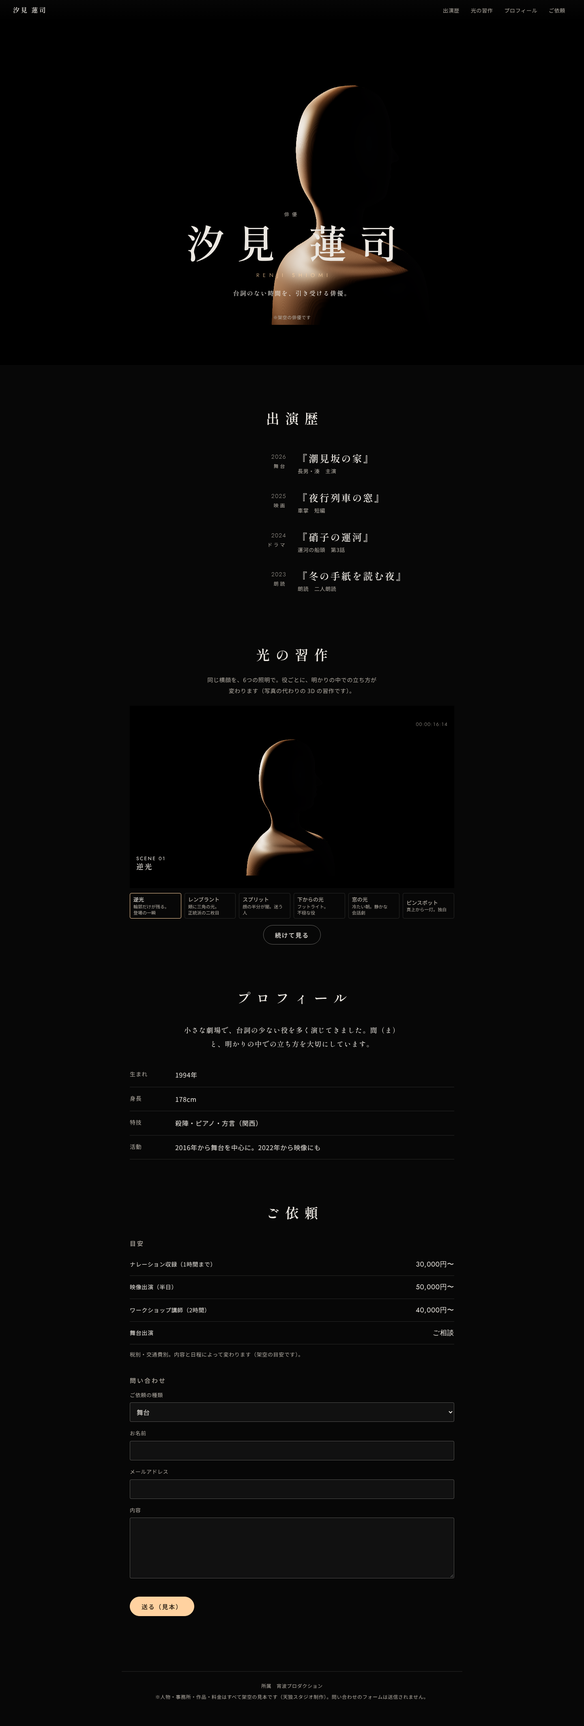
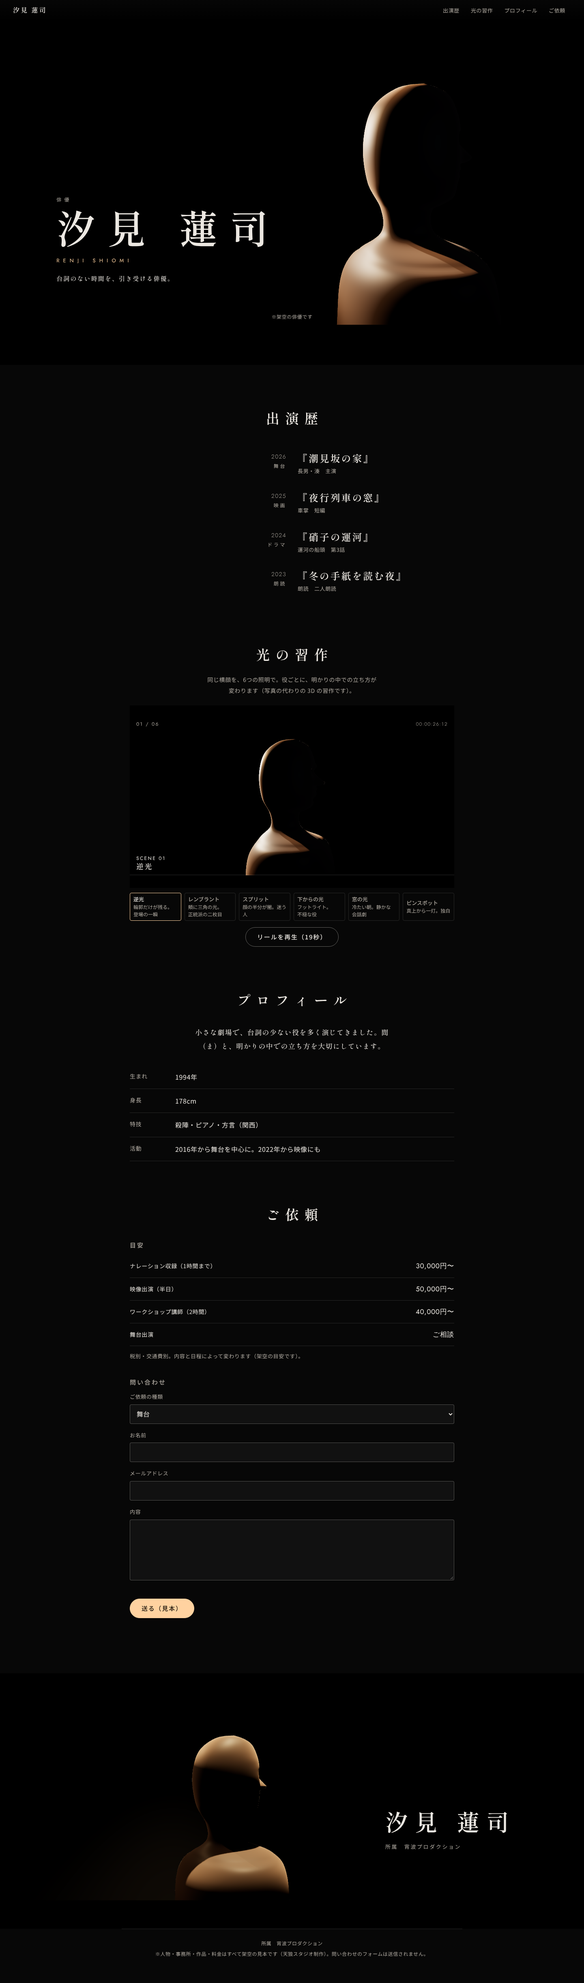
P008：審査1回目の指摘を反映（頭の立体に目のくぼみ・眉・鼻、法線の向きを直して影の縞をなくす、タイトルの出方を4行で変える、PC は文字を左・人物を右に、19秒のリールと進行バー、エンドクレジットでピンスポット、照明ごとの静止画の代替、作品名の折り返し）
Claude-Session: https://claude.ai/code/session_01BwmUGTgfPEj1Tu5124aDtq

diff --git a/studio/projects/P008-actor/site/app.js b/studio/projects/P008-actor/site/app.js
@@ -4,7 +4,7 @@ const $ = id => document.getElementById(id);
 const el = (t, c, x) => { const e = document.createElement(t); if (c) e.className = c; if (x != null) e.textContent = x; return e; };
 const reduce = matchMedia('(prefers-reduced-motion: reduce)').matches;
 $('logo').textContent = F.name; $('t-role').textContent = F.role; $('h-name').textContent = F.name; $('t-en').textContent = F.en; $('t-tag').textContent = F.tagline;
-$('fic').textContent = '※架空の俳優です'; $('about').textContent = F.about; $('rnote').textContent = F.rates_note; $('agency').textContent = `所属　${F.agency}`; $('discl').textContent = F.disclosure;
+$('fic').textContent = '※架空の俳優です'; $('e-name').textContent = F.name; $('e-ag').textContent = `所属　${F.agency}`; $('about').textContent = F.about; $('rnote').textContent = F.rates_note; $('agency').textContent = `所属　${F.agency}`; $('discl').textContent = F.disclosure;
 for (const w of F.works) { const li = el('li'), l = el('p', 'l'), r = el('p', 'r'); l.style.margin = r.style.margin = '0'; l.append(String(w.year), el('span', null, w.kind)); r.append(el('span', 't', `『${w.title}』`), el('span', 'ro', `${w.role}　${w.note}`)); li.append(l, r); $('roll').append(li); }
 for (const [k, v] of F.profile) { const d = el('div'); d.append(el('dt', null, k), el('dd', null, v)); $('prof').append(d); }
 for (const [k, v] of F.rates) { const d = el('div'); d.append(el('dt', null, k), el('dd', null, v)); $('rates').append(d); }
@@ -23,10 +23,10 @@ $('form').addEventListener('submit', e => {
 // 照明の選択（ラジオの並び）
 let look = 0, onLook = () => {};
 const lbtn = F.looks.map((L, i) => { const b = el('button'); b.type = 'button'; b.setAttribute('role', 'radio'); b.setAttribute('aria-checked', String(i === 0)); b.tabIndex = i ? -1 : 0; b.append(L.name, el('small', null, L.note)); b.addEventListener('click', () => setLook(i, true)); $('looks').append(b); return b; });
-function setLook(i, user) { look = i; lbtn.forEach((b, k) => { b.setAttribute('aria-checked', String(k === i)); b.tabIndex = k === i ? 0 : -1; }); const s = $('slate'); s.textContent = ''; s.append(`SCENE ${String(i + 1).padStart(2, '0')}`, el('b', null, F.looks[i].name)); if (user && playing) togglePlay(); onLook(i); }
+function setLook(i, user) { look = i; lbtn.forEach((b, k) => { b.setAttribute('aria-checked', String(k === i)); b.tabIndex = k === i ? 0 : -1; }); const s = $('slate'); s.textContent = ''; s.append(`SCENE ${String(i + 1).padStart(2, '0')}`, el('b', null, F.looks[i].name)); if (user && playing) togglePlay(); $('count').textContent = `${String(i + 1).padStart(2, '0')} / ${String(F.looks.length).padStart(2, '0')}`; $('still').style.backgroundImage = `url(looks/${F.looks[i].id}.jpg)`; s.classList.remove('in'); void s.offsetWidth; s.classList.add('in'); onLook(i); }
 $('looks').addEventListener('keydown', e => { const d = { ArrowRight: 1, ArrowDown: 1, ArrowLeft: -1, ArrowUp: -1 }[e.key]; if (!d) return; e.preventDefault(); const n = (look + d + lbtn.length) % lbtn.length; setLook(n, true); lbtn[n].focus(); });
 let playing = false, playT = 0;
-function togglePlay() { playing = !playing; $('play').setAttribute('aria-pressed', String(playing)); $('play').textContent = playing ? '止める' : '続けて見る'; playT = performance.now(); }
+function togglePlay() { playing = !playing; $('play').setAttribute('aria-pressed', String(playing)); $('play').textContent = playing ? '止める' : 'リールを再生（19秒）'; playT = performance.now(); $('bar').style.transform = 'scaleX(0)'; if (playing) setLook(0); }
 $('play').addEventListener('click', togglePlay);
 setLook(0);
 
@@ -34,33 +34,35 @@ setLook(0);
   let THREE; try { THREE = await import('three'); } catch { return; }
   const scene = new THREE.Scene();
   // 横顔（右向き）。前の輪郭・後ろの輪郭・左右の幅を高さごとに決め、各高さの断面を楕円にして頭の立体を組む
-  const FRONT = [[.52, .04], [.42, .24], [.24, .33], [.1, .35], [.04, .33], [-.02, .37], [-.13, .46], [-.17, .44], [-.19, .37], [-.24, .385], [-.27, .36], [-.31, .38], [-.35, .35], [-.38, .31], [-.44, .33], [-.5, .3], [-.56, .2], [-.6, .12], [-.74, .11], [-.86, .2], [-1.0, .5], [-1.25, .62], [-1.7, .66]];
+  const FRONT = [[.52, .04], [.42, .24], [.24, .33], [.1, .35], [.04, .33], [-.02, .37], [-.11, .47], [-.14, .5], [-.18, .45], [-.19, .37], [-.24, .385], [-.27, .36], [-.31, .38], [-.35, .35], [-.38, .31], [-.44, .33], [-.5, .3], [-.56, .2], [-.6, .12], [-.74, .11], [-.86, .2], [-1.0, .5], [-1.25, .62], [-1.7, .66], [-2.6, .68]];
   // 鼻・唇・顎の凹凸は顔の中央だけに付ける（横まで伸ばすと帯に見える）。その外側は、凹凸のない滑らかな顔の線
-  const BASE = [[.52, .04], [.42, .24], [.24, .33], [.1, .35], [-.1, .36], [-.3, .35], [-.44, .33], [-.5, .3], [-.56, .2], [-.6, .12], [-.74, .11], [-.86, .2], [-1.0, .5], [-1.25, .62], [-1.7, .66]];
-  const BACK = [[.52, .04], [.48, -.2], [.3, -.42], [-.02, -.5], [-.36, -.46], [-.6, -.34], [-.8, -.33], [-.98, -.5], [-1.25, -.66], [-1.7, -.7]];
-  const WIDE = [[.52, 0], [.47, .2], [.3, .33], [0, .37], [-.3, .34], [-.5, .26], [-.62, .19], [-.85, .21], [-1.0, .62], [-1.15, .86], [-1.7, .92]];
+  const BASE = [[.52, .04], [.42, .24], [.24, .33], [.1, .35], [-.1, .36], [-.3, .35], [-.44, .33], [-.5, .3], [-.56, .2], [-.6, .12], [-.74, .11], [-.86, .2], [-1.0, .5], [-1.25, .62], [-1.7, .66], [-2.6, .68]];
+  const BACK = [[.52, .04], [.48, -.2], [.3, -.42], [-.02, -.5], [-.36, -.46], [-.6, -.34], [-.8, -.33], [-.98, -.5], [-1.25, -.66], [-1.7, -.7], [-2.6, -.72]];
+  const WIDE = [[.52, 0], [.47, .2], [.3, .33], [0, .37], [-.3, .34], [-.5, .26], [-.62, .19], [-.85, .21], [-1.0, .62], [-1.15, .86], [-1.7, .92], [-2.6, .94]];
   const dense = pts => new THREE.SplineCurve(pts.map(([y, x]) => new THREE.Vector2(y, x))).getSpacedPoints(600);
   const DF = dense(FRONT), DS = dense(BASE), DB = dense(BACK), DW = dense(WIDE);
   const at = (D, y) => { for (let i = 1; i < D.length; i++) if (D[i].x <= y) { const p = D[i - 1], q = D[i], t = (y - p.x) / ((q.x - p.x) || 1e-6); return p.y + (q.y - p.y) * t; } return D[D.length - 1].y; };
   const NY = 260, NT = 128, pos = [], idx = [];
   for (let j = 0; j <= NY; j++) {
-    const y = .52 - (j / NY) * 2.22, xs = at(DS, y), det = at(DF, y) - xs, xb = at(DB, y), c = (xs + xb) / 2, ax = Math.max(0, (xs - xb) / 2), w = at(DW, y);
-    for (let i = 0; i <= NT; i++) { const th = i / NT * Math.PI * 2, cs = Math.cos(th), sn = Math.sin(th), face = cs > 0 ? det * Math.exp(-sn * sn / .035) : 0; pos.push(c + ax * Math.sign(cs) * Math.pow(Math.abs(cs), .9) + face, y, w * Math.sign(sn) * Math.pow(Math.abs(sn), .9)); }
+    const y = .52 - (j / NY) * 3.1, xs = at(DS, y), det = at(DF, y) - xs, xb = at(DB, y), c = (xs + xb) / 2, ax = Math.max(0, (xs - xb) / 2), w = at(DW, y);
+    for (let i = 0; i <= NT; i++) { const th = i / NT * Math.PI * 2, cs = Math.cos(th), sn = Math.sin(th), face = cs > 0 ? det * Math.exp(-sn * sn / .05) : 0; const z = w * Math.sign(sn) * Math.pow(Math.abs(sn), .9), eye = cs > 0 ? .055 * Math.exp(-((Math.abs(z) - .13) ** 2) / .0035) * Math.exp(-((y - .03) ** 2) / .005) : 0, brow = cs > 0 ? .025 * Math.exp(-(z * z) / .03) * Math.exp(-((y - .11) ** 2) / .002) : 0; pos.push(c + ax * Math.sign(cs) * Math.pow(Math.abs(cs), .9) + face - eye + brow, y, z); }   // 目のくぼみと眉の張り
   }
-  for (let j = 0; j < NY; j++) for (let i = 0; i < NT; i++) { const a0 = j * (NT + 1) + i, a1 = a0 + 1, b0 = a0 + NT + 1, b1 = b0 + 1; idx.push(a0, b0, a1, a1, b0, b1); }
+  for (let j = 0; j < NY; j++) for (let i = 0; i < NT; i++) { const a0 = j * (NT + 1) + i, a1 = a0 + 1, b0 = a0 + NT + 1, b1 = b0 + 1; idx.push(a0, a1, b0, a1, b1, b0); }   // 法線が外を向く巻き方（逆だと normalBias で頭全体が自分の影に入る）
   const geo = new THREE.BufferGeometry(); geo.setAttribute('position', new THREE.Float32BufferAttribute(pos, 3)); geo.setIndex(idx); geo.computeVertexNormals();
   const skin = new THREE.MeshPhysicalMaterial({ side: THREE.DoubleSide, color: 0x6e5a4e, roughness: .55, sheen: .6, sheenColor: new THREE.Color(0xffd9c0), sheenRoughness: .6 });
   const head = new THREE.Mesh(geo, skin); head.castShadow = head.receiveShadow = true; scene.add(head);
+  if (false) for (const sz of [-1, 1]) { const ear = new THREE.Mesh(new THREE.SphereGeometry(1, 24, 16), skin); ear.scale.set(.065, .11, .035); ear.position.set(-.06, -.07, sz * .36); ear.rotation.y = sz * .25; ear.castShadow = true; head.add(ear); }
   // 奥の壁（光が当たると舞台の黒幕のように浮く）
   const wall = new THREE.Mesh(new THREE.PlaneGeometry(14, 8), new THREE.MeshStandardMaterial({ color: 0x141312, roughness: .95 })); wall.position.set(0, 0, -2.4); wall.receiveShadow = true; scene.add(wall);
   const amb = new THREE.HemisphereLight(0x1a1d24, 0x050505, .25); scene.add(amb);
   const key = new THREE.SpotLight(0xffffff, 0, 20, .5, .7, 1.2), fill = new THREE.SpotLight(0xffffff, 0, 20, .7, .9, 1.2), rim = new THREE.SpotLight(0xffffff, 0, 20, .5, .6, 1.2);
-  for (const l of [key, fill, rim]) { l.castShadow = true; l.shadow.mapSize.set(1024, 1024); l.shadow.bias = -.0004; l.target = head; scene.add(l); }
+  const small = innerWidth < 700, msz = small ? 512 : 1024;
+  for (const l of [key, fill, rim]) { l.castShadow = true; l.shadow.mapSize.set(msz, msz); l.shadow.bias = -.0015; l.shadow.normalBias = .03; l.shadow.camera.near = 1; l.shadow.camera.far = 12; l.target = head; scene.add(l); }
   // 6つの照明：key・fill・rim の位置・色・強さ、壁の光、カメラの角度（横顔からの回り込み）
   const V = (x, y, z) => new THREE.Vector3(x, y, z), C = h => new THREE.Color(h);
   const LOOK = {
     rim: { key: [V(-3, 1.5, -2.5), C(0xffcf9a), 26], fill: [V(2, 0, 3), C(0x9fb4d8), .6], rim: [V(-2.2, .6, -2.8), C(0xfff0dc), 30], wall: .0, yaw: .0 },
-    rembrandt: { key: [V(2.6, 2.4, 2.2), C(0xffe2c4), 30], fill: [V(-2, .2, 3), C(0x8fa2c4), 2], rim: [V(-2.4, 1, -2.4), C(0xfff0dc), 8], wall: .2, yaw: -.55 },
+    rembrandt: { key: [V(2.2, 2.0, 2.6), C(0xffe2c4), 30], fill: [V(-2, .2, 3), C(0x8fa2c4), 2], rim: [V(-2.4, 1, -2.4), C(0xfff0dc), 8], wall: .2, yaw: -.55 },
     split: { key: [V(0, .3, 3.6), C(0xfff2e6), 26], fill: [V(0, 0, -3), C(0x000000), 0], rim: [V(-3, .5, 0), C(0x6f86b8), 4], wall: .05, yaw: -1.2 },
     under: { key: [V(1.6, -2.6, 1.6), C(0xb8c8ff), 28], fill: [V(-2, -1, 2), C(0x31406b), 2], rim: [V(-2, 1, -2.5), C(0x7d5cff), 8], wall: .15, yaw: -.35 },
     window: { key: [V(3.2, 1.6, .6), C(0xc9dbff), 22], fill: [V(-2, 1, 3), C(0x8c9bb6), 4], rim: [V(-2, 1.2, -2.6), C(0xe8eeff), 6], wall: .35, yaw: -.2 },
@@ -74,31 +76,41 @@ setLook(0);
   const applyState = st => { [['key', key], ['fill', fill], ['rim', rim]].forEach(([n, l]) => { l.position.copy(st[n][0]); l.color.copy(st[n][1]); l.intensity = st[n][2]; }); wall.material.color.setRGB(.08 + st.wall * .25, .075 + st.wall * .24, .07 + st.wall * .26); };
 
   const views = [];
-  const mkView = (id, fov) => { const cv = $(id), r = new THREE.WebGLRenderer({ canvas: cv, antialias: true }); r.setPixelRatio(Math.min(2, devicePixelRatio)); r.setClearColor(0x000000, 1); r.shadowMap.enabled = true; r.shadowMap.type = THREE.PCFSoftShadowMap; r.toneMapping = THREE.ACESFilmicToneMapping; r.outputColorSpace = THREE.SRGBColorSpace; const cam = new THREE.PerspectiveCamera(fov, 1, .1, 50); const v = { cv, r, cam, on: true, shown: false }; new ResizeObserver(() => { const w = cv.clientWidth, h = cv.clientHeight; r.setSize(w, h, false); cam.aspect = w / h; cam.updateProjectionMatrix(); }).observe(cv); new IntersectionObserver(es => { v.on = es[0].isIntersecting; }).observe(cv); views.push(v); return v; };
-  const hero = mkView('gl-hero', 30), reel = mkView('gl-reel', 26);
+  const mkView = (id, fov) => { const cv = $(id), r = new THREE.WebGLRenderer({ canvas: cv, antialias: true }); r.setPixelRatio(Math.min(small ? 1.5 : 2, devicePixelRatio)); r.setClearColor(0x000000, 1); r.shadowMap.enabled = true; r.shadowMap.type = THREE.PCFSoftShadowMap; r.toneMapping = THREE.ACESFilmicToneMapping; r.outputColorSpace = THREE.SRGBColorSpace; const cam = new THREE.PerspectiveCamera(fov, 1, .1, 50); const v = { cv, r, cam, on: true, shown: false }; new ResizeObserver(() => { const w = cv.clientWidth, h = cv.clientHeight; r.setSize(w, h, false); cam.aspect = w / h; cam.updateProjectionMatrix(); }).observe(cv); new IntersectionObserver(es => { v.on = es[0].isIntersecting; }).observe(cv); views.push(v); return v; };
+  const hero = mkView('gl-hero', 30), reel = mkView('gl-reel', 26), end = mkView('gl-end', 30);
+  let endOn = -1; new IntersectionObserver(es => { if (es[0].isIntersecting && endOn < 0) endOn = performance.now(); }, { threshold: .5 }).observe($('gl-end'));
   onLook = () => {};
   const t0 = performance.now(), heroState = { key: [V(0, 0, 0), C(0), 0], fill: [V(0, 0, 0), C(0), 0], rim: [V(0, 0, 0), C(0), 0], wall: 0, yaw: 0 };
   copy(heroState, LOOK.rim);
   const tcode = s => { const f = Math.floor(s * 24) % 24, ss = Math.floor(s) % 60, mm = Math.floor(s / 60) % 60; return `00:${String(mm).padStart(2, '0')}:${String(ss).padStart(2, '0')}:${String(f).padStart(2, '0')}`; };
+  let last = performance.now();
   function frame(now) {
-    const t = (now - t0) / 1000;
-    if (playing && now - playT > 3200) { playT = now; setLook((look + 1) % ids.length); }
+    const t = Math.max(0, (now - t0) / 1000), dt = Math.min(.05, Math.max(0, (now - last) / 1000)); last = now;
+    if (playing) { const el2 = now - playT, k = Math.floor(el2 / 3200); $('bar').style.transform = `scaleX(${Math.min(1, el2 / (3200 * ids.length))})`; if (k >= ids.length) { togglePlay(); setLook(0); } else if (k !== look) setLook(k); }
     if (hero.on) {
       // タイトルバック：暗闇から逆光の輪郭が立ち上がり、カメラはゆっくり横へ回り込む
       const up = reduce ? 1 : Math.min(1, t / 3.5), e = 1 - Math.pow(1 - up, 3);
       applyState(heroState); rim.intensity = heroState.rim[2] * e; key.intensity = heroState.key[2] * e; wall.material.color.setRGB(.03, .03, .035);
       const a = reduce ? -.3 : -.15 - Math.sin(t * .05) * .2 - (1 - e) * .3, tall = hero.cam.aspect < 1;
-      const dd = tall ? 8.8 : 6.2; hero.cam.position.set(Math.sin(a) * dd, tall ? .2 : .05, Math.cos(a) * dd); hero.cam.lookAt(tall ? .05 : -.55, tall ? -.95 : -.35, 0);
+      const dd = tall ? 8.8 : 6.2; hero.cam.position.set(Math.sin(a) * dd, tall ? .55 : .05, Math.cos(a) * dd); hero.cam.lookAt(tall ? .05 : -1.15, tall ? -1.1 : -.35, 0);
       hero.r.render(scene, hero.cam); if (!hero.shown) { hero.shown = true; hero.cv.classList.add('ready'); }
     }
     if (reel.on) {
-      lerpState(reelState, LOOK[ids[look]], reduce ? 1 : .08); applyState(reelState);
+      lerpState(reelState, LOOK[ids[look]], reduce ? 1 : 1 - Math.exp(-dt * 4.5)); applyState(reelState);
       const a = reelState.yaw + (reduce ? 0 : Math.sin(t * .3) * .04);
       reel.cam.position.set(Math.sin(a) * 6, -.1, Math.cos(a) * 6); reel.cam.lookAt(0, -.35, 0);
       reel.r.render(scene, reel.cam); if (!reel.shown) { reel.shown = true; reel.cv.classList.add('ready'); }
       $('tc').textContent = tcode(t);
     }
+    if (end.on) {
+      // エンド：冒頭の逆光と対に、真上のピンスポットが 2.5 秒かけて点く
+      const u = endOn < 0 ? 0 : reduce ? 1 : Math.min(1, (now - endOn) / 2500), e = u * u * (3 - 2 * u);
+      copy(endState, LOOK.pin); applyState(endState); key.intensity = LOOK.pin.key[2] * e; rim.intensity = LOOK.pin.rim[2] * e; wall.material.color.setRGB(.03, .03, .035);
+      const tall = end.cam.aspect < 1, dd = tall ? 8.8 : 6.2, a = -.4; end.cam.position.set(Math.sin(a) * dd, tall ? .55 : .05, Math.cos(a) * dd); end.cam.lookAt(tall ? .05 : .9, tall ? -1.1 : -.35, 0);
+      end.r.render(scene, end.cam); if (!end.shown) { end.shown = true; end.cv.classList.add('ready'); }
+    }
     requestAnimationFrame(frame);
   }
+  const endState = { key: [V(0, 0, 0), C(0), 0], fill: [V(0, 0, 0), C(0), 0], rim: [V(0, 0, 0), C(0), 0], wall: 0, yaw: 0 };
   requestAnimationFrame(frame);
 })();

diff --git a/studio/projects/P008-actor/site/index.html b/studio/projects/P008-actor/site/index.html
@@ -6,7 +6,7 @@
 <title>汐見 蓮司｜俳優（架空の見本）</title>
 <meta name="description" content="架空の俳優・汐見 蓮司のポートフォリオの見本。写真の代わりに、横顔のシルエットを6つの照明で見せる（天狼スタジオ制作）。">
 <link rel="preconnect" href="https://fonts.googleapis.com">
-<link id="fm" rel="stylesheet" href="https://fonts.googleapis.com/css2?family=Shippori+Mincho:wght@500;600&display=swap&text=0123456789%E3%80%80%E3%80%81%E3%80%82%E3%80%8C%E3%80%8D%E3%80%8E%E3%80%8F%E3%80%9C%E3%81%84%E3%81%86%E3%81%88%E3%81%8A%E3%81%8B%E3%81%8C%E3%81%8D%E3%81%8F%E3%81%91%E3%81%93%E3%81%94%E3%81%95%E3%81%97%E3%81%98%E3%81%99%E3%81%9B%E3%81%9D%E3%81%9F%E3%81%A0%E3%81%A1%E3%81%A3%E3%81%A4%E3%81%A6%E3%81%A7%E3%81%A8%E3%81%AA%E3%81%AB%E3%81%AE%E3%81%AF%E3%81%B0%E3%81%B3%E3%81%B8%E3%81%B9%E3%81%BE%E3%81%BF%E3%82%80%E3%82%81%E3%82%82%E3%82%86%E3%82%88%E3%82%89%E3%82%8A%E3%82%8B%E3%82%8C%E3%82%8D%E3%82%8F%E3%82%92%E3%82%93%E3%82%A2%E3%82%A3%E3%82%A4%E3%82%A6%E3%82%A7%E3%82%A8%E3%82%A9%E3%82%AA%E3%82%AB%E3%82%AF%E3%82%B5%E3%82%B7%E3%82%B8%E3%82%B9%E3%82%BF%E3%83%80%E3%83%83%E3%83%88%E3%83%89%E3%83%8A%E3%83%8E%E3%83%90%E3%83%94%E3%83%95%E3%83%96%E3%83%97%E3%83%9A%E3%83%9D%E3%83%9E%E3%83%A0%E3%83%A1%E3%83%A7%E3%83%A9%E3%83%AA%E3%83%AB%E3%83%AC%E3%83%AD%E3%83%AF%E3%83%B3%E3%83%BB%E3%83%BC%E4%B8%80%E4%B8%89%E4%B8%8A%E4%B8%8B%E4%B8%8D%E4%B8%A6%E4%B8%AD%E4%B8%BB%E4%BA%8B%E4%BA%8C%E4%BA%A4%E4%BA%BA%E4%BB%96%E4%BB%98%E4%BB%A3%E4%BC%9A%E4%BC%B8%E4%BD%8D%E4%BD%93%E4%BD%9C%E4%BE%9D%E4%BF%A1%E4%BF%B3%E5%81%B4%E5%83%8F%E5%84%AA%E5%85%88%E5%85%89%E5%85%A5%E5%86%85%E5%86%86%E5%86%92%E5%86%99%E5%86%AC%E5%86%B7%E5%87%B8%E5%87%B9%E5%87%BA%E5%88%86%E5%88%87%E5%88%97%E5%88%A5%E5%88%B6%E5%89%8D%E5%8A%87%E5%8A%9B%E5%8B%95%E5%8B%99%E5%8D%8A%E5%8F%8E%E5%8F%97%E5%8F%B0%E5%8F%B3%E5%8F%B8%E5%90%84%E5%90%88%E5%90%8C%E5%90%8D%E5%90%91%E5%93%81%E5%94%87%E5%95%8F%E5%9B%9E%E5%9C%A8%E5%9D%82%E5%A0%B4%E5%A3%81%E5%A4%89%E5%A4%96%E5%A4%9A%E5%A4%9C%E5%A4%A7%E5%A4%A9%E5%A4%AE%E5%A5%A5%E5%AD%90%E5%AE%89%E5%AE%9F%E5%AE%B5%E5%AE%B6%E5%AE%B9%E5%B0%8F%E5%B0%91%E5%B1%8A%E5%B1%9E%E5%B7%A6%E5%B8%AB%E5%B8%AF%E5%B9%85%E5%B9%95%E5%B9%B4%E5%BA%A6%E5%BC%95%E5%BC%B7%E5%BD%93%E5%BD%B9%E5%BE%8C%E5%BF%83%E6%89%80%E6%89%8B%E6%8A%80%E6%8A%9E%E6%8E%8C%E6%96%87%E6%96%99%E6%96%AD%E6%96%B9%E6%97%A5%E6%98%8E%E6%98%A0%E6%99%82%E6%9A%97%E6%9C%97%E6%9C%9D%E6%9C%AC%E6%9E%9A%E6%9E%B6%E6%A4%9C%E6%A5%95%E6%A8%AA%E6%AD%A2%E6%AD%A3%E6%AD%B4%E6%AE%8B%E6%AE%BA%E6%B1%90%E6%B1%BA%E6%B2%B3%E6%B3%A2%E6%B4%BB%E6%B4%BE%E6%B5%AE%E6%B9%8A%E6%BB%91%E6%BC%94%E6%BD%AE%E7%81%AF%E7%85%A7%E7%89%A9%E7%89%B9%E7%8B%AC%E7%8B%BC%E7%94%9F%E7%94%B7%E7%94%BB%E7%99%BB%E7%99%BD%E7%9B%AE%E7%9B%B8%E7%9C%9F%E7%9E%AC%E7%9F%AD%E7%A1%9D%E7%A2%BA%E7%A7%BB%E7%A8%8B%E7%A8%8E%E7%A8%AE%E7%A9%8F%E7%A9%BA%E7%AA%93%E7%AB%8B%E7%AC%AC%E7%B4%99%E7%B4%A2%E7%B5%84%E7%B5%A1%E7%B5%B1%E7%B6%9A%E7%B7%9A%E7%B7%A8%E7%BD%AE%E7%BF%92%E8%88%9E%E8%88%B9%E8%89%B2%E8%93%AE%E8%A1%8C%E8%A5%BF%E8%A6%8B%E8%A7%92%E8%A8%80%E8%A9%9E%E8%A9%B1%E8%AA%8D%E8%AA%AD%E8%AB%87%E8%AC%9B%E8%B2%BB%E8%BA%AB%E8%BB%8A%E8%BC%89%E8%BC%AA%E8%BE%BC%E8%BF%B7%E9%80%81%E9%80%86%E9%80%9A%E9%80%A3%E9%81%8B%E9%81%B8%E9%83%AD%E9%87%8D%E9%87%91%E9%8C%B2%E9%95%B7%E9%96%93%E9%96%A2%E9%97%87%E9%99%A3%E9%9A%9B%E9%9D%99%E9%9D%A2%E9%A0%AC%E9%A0%AD%E9%A0%BC%E9%A1%8E%E9%A1%94%E9%A1%9E%E9%AB%98%E9%BB%92%E9%BC%BB%EF%BC%88%EF%BC%89%EF%BC%9A%EF%BD%9C">
+<link id="fm" rel="stylesheet" href="https://fonts.googleapis.com/css2?family=Shippori+Mincho:wght@500;600&display=swap&text=0123456789%E3%80%80%E3%80%81%E3%80%82%E3%80%8C%E3%80%8D%E3%80%8E%E3%80%8F%E3%80%9C%E3%81%84%E3%81%86%E3%81%88%E3%81%8A%E3%81%8B%E3%81%8C%E3%81%8D%E3%81%8F%E3%81%91%E3%81%93%E3%81%94%E3%81%95%E3%81%97%E3%81%98%E3%81%99%E3%81%9B%E3%81%9D%E3%81%9F%E3%81%A0%E3%81%A1%E3%81%A3%E3%81%A4%E3%81%A6%E3%81%A7%E3%81%A8%E3%81%AA%E3%81%AB%E3%81%AE%E3%81%AF%E3%81%B0%E3%81%B3%E3%81%B8%E3%81%B9%E3%81%BC%E3%81%BE%E3%81%BF%E3%82%80%E3%82%81%E3%82%82%E3%82%86%E3%82%88%E3%82%89%E3%82%8A%E3%82%8B%E3%82%8C%E3%82%8D%E3%82%8F%E3%82%92%E3%82%93%E3%82%A2%E3%82%A3%E3%82%A4%E3%82%A6%E3%82%A7%E3%82%A8%E3%82%A9%E3%82%AA%E3%82%AB%E3%82%AF%E3%82%B5%E3%82%B7%E3%82%B8%E3%82%B9%E3%82%BF%E3%83%80%E3%83%83%E3%83%88%E3%83%89%E3%83%8A%E3%83%8E%E3%83%90%E3%83%94%E3%83%95%E3%83%96%E3%83%97%E3%83%9A%E3%83%9D%E3%83%9E%E3%83%A0%E3%83%A1%E3%83%A7%E3%83%A9%E3%83%AA%E3%83%AB%E3%83%AC%E3%83%AD%E3%83%AF%E3%83%B3%E3%83%BB%E3%83%BC%E4%B8%80%E4%B8%89%E4%B8%8A%E4%B8%8B%E4%B8%8D%E4%B8%A6%E4%B8%AD%E4%B8%BB%E4%BA%8B%E4%BA%8C%E4%BA%A4%E4%BA%BA%E4%BB%96%E4%BB%98%E4%BB%A3%E4%BC%9A%E4%BC%B8%E4%BD%8D%E4%BD%93%E4%BD%9C%E4%BE%9D%E4%BF%A1%E4%BF%B3%E5%81%B4%E5%83%8F%E5%84%AA%E5%85%88%E5%85%89%E5%85%A5%E5%85%A8%E5%86%85%E5%86%86%E5%86%8D%E5%86%92%E5%86%99%E5%86%AC%E5%86%B7%E5%87%B8%E5%87%B9%E5%87%BA%E5%88%86%E5%88%87%E5%88%97%E5%88%A5%E5%88%B6%E5%89%8D%E5%8A%87%E5%8A%9B%E5%8B%95%E5%8B%99%E5%8D%8A%E5%8F%8E%E5%8F%97%E5%8F%B0%E5%8F%B3%E5%8F%B8%E5%90%84%E5%90%88%E5%90%8C%E5%90%8D%E5%90%91%E5%93%81%E5%94%87%E5%95%8F%E5%9B%9E%E5%9C%A8%E5%9D%82%E5%A0%B4%E5%A3%81%E5%A4%89%E5%A4%96%E5%A4%9A%E5%A4%9C%E5%A4%A7%E5%A4%A9%E5%A4%AE%E5%A5%A5%E5%AD%90%E5%AE%89%E5%AE%9F%E5%AE%B5%E5%AE%B6%E5%AE%B9%E5%AF%BE%E5%B0%8F%E5%B0%91%E5%B1%8A%E5%B1%9E%E5%B7%A6%E5%B7%BB%E5%B8%AB%E5%B8%AF%E5%B9%85%E5%B9%95%E5%B9%B4%E5%BA%A6%E5%BC%95%E5%BC%B5%E5%BC%B7%E5%BD%93%E5%BD%B1%E5%BD%B9%E5%BE%8C%E5%BF%83%E6%89%80%E6%89%8B%E6%8A%80%E6%8A%9E%E6%8E%8C%E6%96%87%E6%96%99%E6%96%AD%E6%96%B9%E6%97%A5%E6%98%8E%E6%98%A0%E6%99%82%E6%9A%97%E6%9C%97%E6%9C%9D%E6%9C%AC%E6%9E%9A%E6%9E%B6%E6%A4%9C%E6%A5%95%E6%A8%AA%E6%AD%A2%E6%AD%A3%E6%AD%B4%E6%AE%8B%E6%AE%BA%E6%B1%90%E6%B1%BA%E6%B2%B3%E6%B3%95%E6%B3%A2%E6%B4%BB%E6%B4%BE%E6%B5%AE%E6%B9%8A%E6%BB%91%E6%BC%94%E6%BD%AE%E7%81%AF%E7%82%B9%E7%85%A7%E7%89%A9%E7%89%B9%E7%8B%AC%E7%8B%BC%E7%94%9F%E7%94%B7%E7%94%BB%E7%99%BB%E7%99%BD%E7%9B%AE%E7%9B%B8%E7%9C%89%E7%9C%9F%E7%9E%AC%E7%9F%AD%E7%A1%9D%E7%A2%BA%E7%A7%92%E7%A7%BB%E7%A8%8B%E7%A8%8E%E7%A8%AE%E7%A9%8F%E7%A9%BA%E7%AA%93%E7%AB%8B%E7%AC%AC%E7%B4%99%E7%B4%A2%E7%B5%84%E7%B5%A1%E7%B5%B1%E7%B7%9A%E7%B7%A8%E7%BD%AE%E7%BF%92%E8%87%AA%E8%88%9E%E8%88%B9%E8%89%B2%E8%93%AE%E8%A1%8C%E8%A5%BF%E8%A6%8B%E8%A7%92%E8%A8%80%E8%A9%9E%E8%A9%B1%E8%AA%8D%E8%AA%AD%E8%AB%87%E8%AC%9B%E8%B2%BB%E8%BA%AB%E8%BB%8A%E8%BC%89%E8%BC%AA%E8%BE%BC%E8%BF%B7%E9%80%81%E9%80%86%E9%80%9A%E9%80%A3%E9%81%8B%E9%81%B8%E9%83%AD%E9%87%8D%E9%87%91%E9%8C%B2%E9%95%B7%E9%96%93%E9%96%A2%E9%97%87%E9%99%A3%E9%9A%9B%E9%9D%99%E9%9D%A2%E9%A0%AC%E9%A0%AD%E9%A0%BC%E9%A1%8E%E9%A1%94%E9%A1%9E%E9%AB%98%E9%BB%92%E9%BC%BB%EF%BC%88%EF%BC%89%EF%BC%9A%EF%BD%9C">
 <link rel="stylesheet" href="https://fonts.googleapis.com/css2?family=Noto+Sans+JP:wght@400;500&family=Jost:wght@300;400&display=swap">
 <link rel="stylesheet" href="style.css">
 <script type="importmap">{"imports":{"three":"https://cdn.jsdelivr.net/npm/three@0.160.0/build/three.module.js"}}</script>
@@ -36,14 +36,16 @@
   <section class="sec reel" id="reel" aria-labelledby="h-reel">
     <h2 id="h-reel">光の習作</h2>
     <p class="lead">同じ横顔を、6つの照明で。役ごとに、明かりの中での立ち方が変わります（写真の代わりの 3D の習作です）。</p>
-    <div class="screen">
+    <div class="screen" id="still">
       <canvas id="gl-reel" aria-hidden="true"></canvas>
       <div class="bars" aria-hidden="true"></div>
       <p class="slate" id="slate" aria-live="polite"></p>
       <p class="tc" id="tc" aria-hidden="true">00:00:00:00</p>
+      <p class="count" id="count" aria-hidden="true"></p>
+      <div class="prog" aria-hidden="true"><i id="bar"></i></div>
     </div>
     <div class="looks" id="looks" role="radiogroup" aria-label="照明"></div>
-    <p class="play"><button type="button" id="play" class="btn ghost" aria-pressed="false">続けて見る</button></p>
+    <p class="play"><button type="button" id="play" class="btn ghost" aria-pressed="false">リールを再生（19秒）</button></p>
   </section>
   <section class="sec" id="profile" aria-labelledby="h-profile">
     <h2 id="h-profile">プロフィール</h2>
@@ -67,6 +69,11 @@
     </form>
   </section>
 </main>
+<section class="endcard" aria-label="エンドクレジット">
+  <canvas id="gl-end" aria-hidden="true"></canvas>
+  <div class="bars" aria-hidden="true"></div>
+  <div class="etitles"><p class="e1" id="e-name"></p><p class="e2" id="e-ag"></p></div>
+</section>
 <footer class="foot"><p id="agency"></p><p id="discl"></p></footer>
 <script type="module" src="app.js"></script>
 </body>

diff --git a/studio/projects/P008-actor/site/style.css b/studio/projects/P008-actor/site/style.css
@@ -31,13 +31,17 @@ a { color: var(--ink); }
 .bars::before, .bars::after { content: ""; position: absolute; left: 0; right: 0; height: var(--bar, 11%); background: #000; }
 .bars::before { top: 0; } .bars::after { bottom: 0; }
 .titles { position: absolute; left: 0; right: 0; bottom: 18%; padding: 0 24px; text-align: center; }
-.titles > * { opacity: 0; animation: credit 1.6s ease-out forwards; }
-.t1 { margin: 0; font: 400 12px/1 var(--sans); letter-spacing: .6em; color: var(--sub); animation-delay: .8s; }
-.t2 { margin: 18px 0 0; font: 600 clamp(44px, 13vw, 96px)/1.1 var(--mincho); letter-spacing: .3em; text-indent: .3em; animation-delay: 1.8s; }
-.t3 { margin: 14px 0 0; font: 300 13px/1 var(--num); letter-spacing: .7em; text-indent: .7em; color: var(--warm); animation-delay: 2.8s; }
-.t4 { margin: 26px 0 0; font: 500 15px/1.8 var(--mincho); letter-spacing: .14em; animation-delay: 3.8s; }
-@keyframes credit { from { opacity: 0; filter: blur(6px); } to { opacity: 1; filter: blur(0); } }
-.fic { position: absolute; left: 0; right: 0; bottom: calc(var(--bar, 11%) + 8px); margin: 0; text-align: center; font-size: 11px; color: var(--sub); }
+.titles::before { content: ""; position: absolute; inset: -60px -10% -40px; z-index: -1; background: radial-gradient(closest-side, rgba(0, 0, 0, .6), transparent); }
+/* 4行は出方を変える：役名は薄く、名前は字間を詰めて着地、ローマ字は左から開き、標語は最後に */
+.t1 { margin: 0; font: 400 12px/1 var(--sans); letter-spacing: .6em; color: var(--sub); opacity: 0; animation: fade .6s ease-out .3s forwards; }
+.t2 { margin: 18px 0 0; font: 600 clamp(44px, 13vw, 96px)/1.1 var(--mincho); letter-spacing: .3em; text-indent: .3em; opacity: 0; animation: land 1.4s cubic-bezier(.22, 1, .36, 1) .7s forwards; }
+.t3 { margin: 14px 0 0; font: 400 13px/1 var(--num); letter-spacing: .7em; text-indent: .7em; color: var(--warm); clip-path: inset(0 100% 0 0); animation: wipe .9s cubic-bezier(.65, 0, .35, 1) 1.6s forwards; }
+.t4 { margin: 26px 0 0; font: 500 15px/1.8 var(--mincho); letter-spacing: .14em; opacity: 0; transform: translateY(8px); animation: rise .8s ease-out 2.3s forwards; }
+@keyframes fade { to { opacity: 1; } }
+@keyframes land { from { opacity: 0; letter-spacing: .6em; } to { opacity: 1; letter-spacing: .3em; } }
+@keyframes wipe { to { clip-path: inset(0 0 0 0); } }
+@keyframes rise { to { opacity: 1; transform: none; } }
+.fic { position: absolute; left: 0; right: 0; bottom: calc(var(--bar, 11%) + 8px); margin: 0; text-align: center; font-size: 12px; color: var(--sub); }
 
 .sec { max-width: 840px; margin: 0 auto; padding: 112px 20px 0; }
 .sec h2 { margin: 0 0 40px; text-align: center; font: 600 clamp(26px, 7vw, 34px)/1.3 var(--mincho); letter-spacing: .4em; text-indent: .4em; }
@@ -51,19 +55,23 @@ a { color: var(--ink); }
 .roll .t { display: block; font: 600 clamp(19px, 5vw, 24px)/1.5 var(--mincho); letter-spacing: .12em; }
 .roll .ro { display: block; font-size: 13px; color: var(--sub); }
 .lead { margin: -16px auto 24px; max-width: 34em; text-align: center; color: var(--sub); font-size: 14px; }
-.screen { position: relative; aspect-ratio: 16 / 9; background: #000; overflow: hidden; --bar: 7%; }
+.screen { position: relative; aspect-ratio: 16 / 9; background: #000 center / cover no-repeat; overflow: hidden; --bar: 7%; }
+.count { position: absolute; left: 16px; top: calc(7% + 8px); margin: 0; font: 400 12px/1 var(--num); letter-spacing: .2em; color: var(--sub); }
+.prog { position: absolute; left: 0; right: 0; bottom: 7%; height: 2px; background: rgba(255, 255, 255, .08); }
+.prog i { display: block; height: 100%; background: var(--warm); transform: scaleX(0); transform-origin: 0 50%; }
+.slate.in { animation: fade .4s ease-out; }
 .slate { position: absolute; left: 16px; bottom: calc(7% + 8px); margin: 0; font: 400 12px/1.5 var(--num); letter-spacing: .2em; color: var(--ink); }
 .slate b { display: block; font: 600 18px/1.4 var(--mincho); letter-spacing: .14em; }
 .tc { position: absolute; right: 16px; top: calc(7% + 8px); margin: 0; font: 300 12px/1 var(--num); letter-spacing: .1em; color: var(--sub); font-variant-numeric: tabular-nums; }
 .looks { display: grid; grid-template-columns: repeat(3, 1fr); gap: 8px; margin-top: 12px; }
 .looks button { min-height: 52px; padding: 6px 8px; border: 1px solid var(--line); border-radius: 4px; background: none; color: var(--sub); font: 500 13px/1.4 var(--sans); cursor: pointer; text-align: left; }
-.looks button small { display: block; font-size: 11px; font-weight: 400; color: var(--sub); }
+.looks button small { display: block; font-size: 12px; line-height: 1.5; font-weight: 400; color: var(--sub); }
 .looks button[aria-checked="true"] { border-color: var(--warm); color: var(--ink); }
 .play { text-align: center; margin: 16px 0 0; }
 .btn { display: inline-flex; align-items: center; justify-content: center; min-height: 48px; padding: 0 28px; border: 1px solid var(--warm); border-radius: 24px; background: var(--warm); color: #1b130a; font: 500 15px/1 var(--sans); letter-spacing: .12em; cursor: pointer; }
 .btn.ghost { background: none; color: var(--ink); border-color: rgba(236, 232, 226, .4); }
 .btn.ghost[aria-pressed="true"] { border-color: var(--warm); color: var(--warm); }
-.about { margin: 0 auto 28px; max-width: 32em; font: 500 17px/2 var(--mincho); letter-spacing: .08em; text-align: center; }
+.about { text-wrap: balance; margin: 0 auto 28px; max-width: 32em; font: 500 17px/2 var(--mincho); letter-spacing: .08em; text-align: center; }
 .dl, .rates { margin: 0; }
 .dl div, .rates div { display: grid; grid-template-columns: 6em 1fr; gap: 16px; padding: 14px 0; border-bottom: 1px solid var(--line); }
 .rates div { grid-template-columns: 1fr auto; }
@@ -79,12 +87,24 @@ form [aria-invalid="true"] { border-color: #ff9a8a; }
 .err { margin: 0; min-height: 1em; font-size: 13px; color: #ff9a8a; }
 form .btn { justify-self: start; }
 .msg { margin: 0; font-size: 14px; color: var(--warm); }
-.foot { max-width: 840px; margin: 120px auto 0; padding: 24px 20px 56px; border-top: 1px solid var(--line); font-size: 12px; color: var(--sub); text-align: center; }
+.foot { max-width: 840px; margin: 0 auto; padding: 24px 20px 56px; border-top: 1px solid var(--line); font-size: 12px; color: var(--sub); text-align: center; }
 .foot p { margin: 0 0 4px; }
+/* エンドクレジット：冒頭と同じ黒帯の中で、同じ横顔に真上のピンスポットが点く */
+.endcard { position: relative; height: 70svh; min-height: 420px; margin-top: 120px; overflow: hidden; background: #000; }
+.endcard canvas { position: absolute; inset: 0; width: 100%; height: 100%; display: block; opacity: 0; transition: opacity 1.2s; }
+.endcard canvas.ready { opacity: 1; }
+.etitles { position: absolute; left: 0; right: 0; bottom: 18%; text-align: center; padding: 0 24px; }
+.e1 { margin: 0; font: 600 clamp(32px, 9vw, 56px)/1.2 var(--mincho); letter-spacing: .3em; text-indent: .3em; }
+.e2 { margin: 12px 0 0; font-size: 13px; letter-spacing: .2em; color: var(--sub); }
 @media (min-width: 900px) {
+  .titles { left: 8%; right: auto; bottom: 22%; text-align: left; }
+  .titles .t2, .titles .t3 { text-indent: 0; }
+  .etitles { left: auto; right: 10%; text-align: left; bottom: 30%; }
+  .e1 { text-indent: 0; }
   .top { padding: 0 32px; }
   .top nav a { padding: 0 14px; font-size: 13px; }
   .looks { grid-template-columns: repeat(6, 1fr); }
 }
-@media (max-width: 380px) { .logo { letter-spacing: .08em; font-size: 14px; } .top nav a { padding: 0 3px; font-size: 11px; } }
+@media (max-width: 380px) { .logo { letter-spacing: .06em; font-size: 14px; } .top nav a { padding: 0 2px; font-size: 12px; min-width: 0; } }
+@media (max-width: 600px) { .roll li { grid-template-columns: 4.2em 1fr; gap: 0 16px; } .roll .t { font-size: 18px; word-break: keep-all; } }
 @media (prefers-reduced-motion: reduce) { html { scroll-behavior: auto; } .titles > * { animation: none; opacity: 1; } .hero canvas, .screen canvas { transition: none; } }
